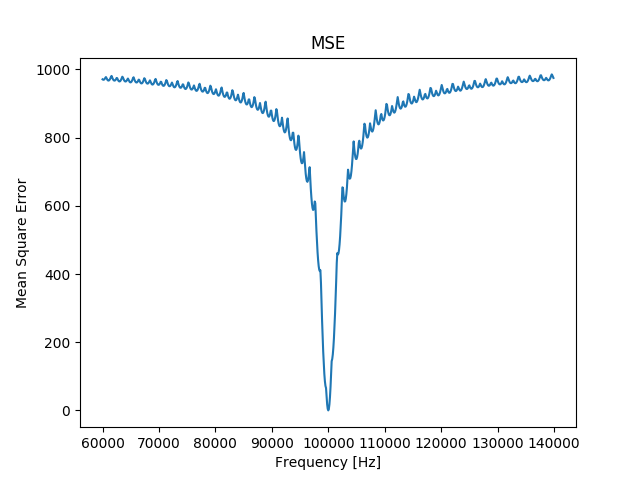
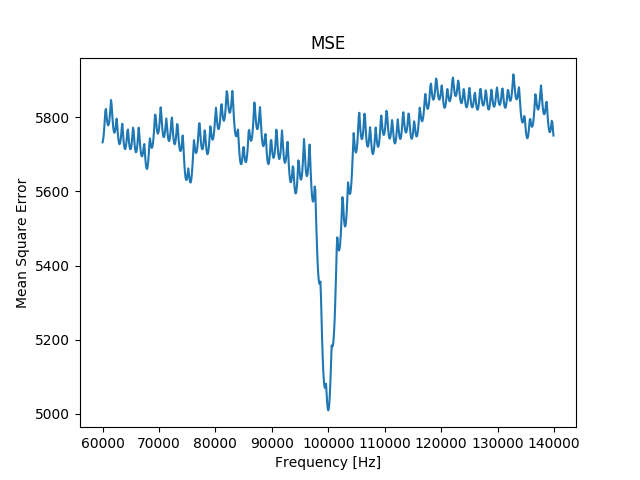
Updated README and auto.py

diff --git a/auto.py b/auto.py
@@ -10,7 +10,7 @@ import sys
 dBs = [-10,0,10,20,30,40,50,60]
 lengthPowers = [10,12,14,16,18,20]
 
-ITERATIONS = 10
+ITERATIONS = 1000
 
 # ---------- Constants ---------- #
 A = 1.0
@@ -21,7 +21,7 @@ f_0 = 10**5
 omega_0 = 2*np.pi*f_0
 theta = np.pi/8
 
-FILENAME = "innafor.xlsx"
+FILENAME = "SimulationResults.xlsx"
 
 
 # ---------- CRLB Helpers ---------- #

diff --git a/README.md b/README.md
@@ -1,12 +1,12 @@
 # TTT4275-EstimationProject
 Code to run simulations for TTT4275 Estimation, Detection and Classification project @ NTNU
 
-### Maximum Likelihood Estimator (MLE) and CRLB
+### Maximum Likelihood Estimator (MLE) and Carmer Rao Lower Bound (CRLB)
 The code in `main.py` does the following once (!):
 
 **a)**
 
-Estimates the frequency of a complex sinusoidal signal embedded in complex gaussian white noise. It uses the maximum argument of the corresponding FFT as an MLE estimator for the frequency of the signal. The MLE estimator for the phase if found by multiplying the frequnecy component of the complex sinusiodal with the Fourier transform evaluated at the estimated frequency. The global variables to be changed depending on the simulation requirements are:
+Estimates the frequency of a complex sinusoidal signal embedded in complex gaussian white noise. It uses the maximum argument of the corresponding FFT as an MLE estimator for the frequency of the signal. The MLE estimator for the phase is found by multiplying the frequency component of the complex sinusiodal with the Fourier transform evaluated at the estimated frequency. The global variables to be changed depending on the simulation requirements are:
 
 - Signal to noise ratio (SNR) `SNR_db` measured in decibel.
 - The FFT length `k` which is given as 2^k.
@@ -22,12 +22,16 @@ E.g if you want to simulate 100 iterations with an SNR of -10 dB using FFTs of l
 ```
 $~ python3 main.py -10 10 100
 ```
+
+If you choose to simply execute the program without arugments or from an IDE like Pycharm where arguments cannot be passed, it will run with its default settings; SNR of -10 dB, 100 iterations and FFTs lengths of 1024. These can be changed in the script, if desired.
+
+
 **b)**
 
-As long FFT estimates are undesirable in practice, an FFT of length 1024 data points is fine tuned by using a numerical search method for the frequency that minimizes the mean square error (MSE) between its own FFT and the aformentioned computed FFT.
+As long FFT estimates are undesirable in practice, an FFT of length 1024 data points is finetuned by using a numerical search method for the frequency that minimizes the mean square error (MSE) between its the FFT of a signal with no noise and the specified frequency and the aformentioned computed FFT.
 
 ### Automation
-In order to perform and analyze larger simulations `auto.py` has been provided. It simulates point **a)** from above, but iterates through FFTs of lengths 2^{10,12,14,16,18,20}. For each FFT length iteration the signal is simulated with SNRs of {-10,0,10,20,30,40,50,60} [dB]. The amount of iterations are 1000. The results are saved to an Excel Spreadsheet file. 
+In order to perform and analyze larger simulations `auto.py` has been provided. It simulates point **a)** from above, but iterates through FFTs of lengths 2^{10,12,14,16,18,20}. For each FFT length iteration the signal is simulated with SNRs of {-10,0,10,20,30,40,50,60} [dB]. The amount of iterations are 1000. The results are saved to an Excel Spreadsheet file named "SimulationResults 
 
 ### Math functions
 
